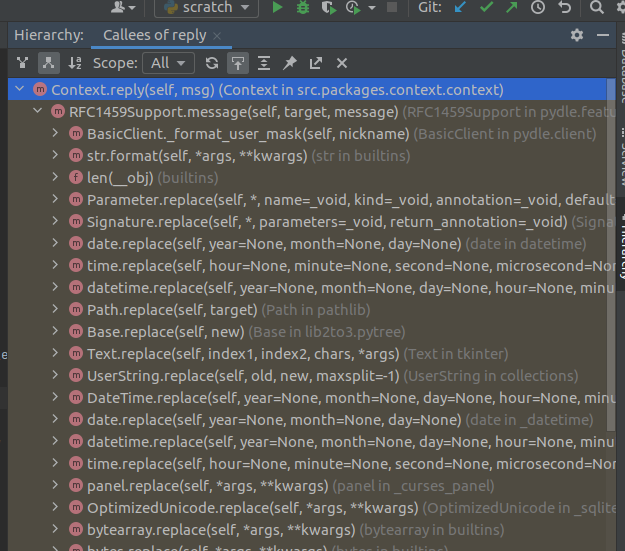
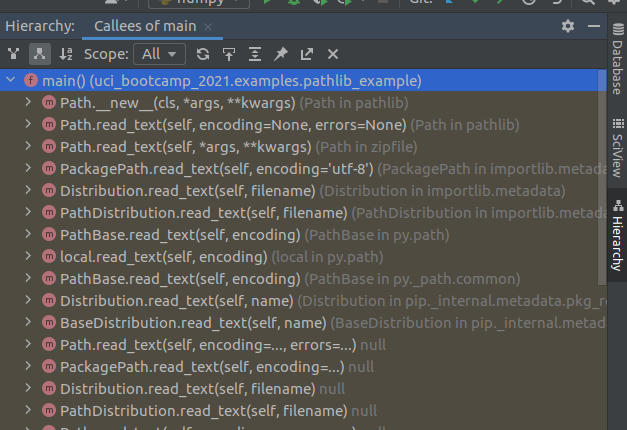
Use a more mundane example repository

diff --git a/src/ide/call_graphs.md b/src/ide/call_graphs.md
@@ -5,45 +5,18 @@ So far we have only shown off basic features an IDE has to offer, and only shown
 To be more representative of challenges programmers can face, its necessary to show more complicated
 projects.
 
-I will use one of my open-source codebases, [Pipsqueak3](https://github.com/theunkn0wn1/pipsqueak3) to
-demonstrate some of the more advanced features an IDE can offer.
+I will use one of the examples out of the Python presentation, which shares the same source repository.
+See [Pathlib](../python/pathlib.md) for an explanation of what this piece of code is doing.
 
-- The exact codebase is of no relevance to Data Science, and was selected due to the author's
-  familiarity with it.
-
-For sake of example, let's take the `Context` class this package defines, and look
-at [`Context.reply`](https://github.com/theunkn0wn1/pipsqueak3/blob/develop/src/packages/context/context.py#L115)
-
-## Getting a list of everything that calls this function
 ```python
-# https://github.com/theunkn0wn1/pipsqueak3/blob/develop/src/packages/context/context.py#L115
-# including the copyright notice as per BSD 3-clause.
-"""
-Copyright (c) 2018 The Fuel Rat Mischief,
-All rights reserved.
-Licensed under the BSD 3-Clause License.
-See LICENSE.md
-"""
-
-
-class Context:
-    ...
-
-    async def reply(self, msg: str):
-        """
-        Sends a message in the same channel or query window as the command was sent.
-        Arguments:
-            msg (str): Message to send.
-        """
-        if self.channel is not None:
-            await self.bot.message(self.channel, msg)
-        else:
-            await self.bot.message(self.user.nickname, msg)
+{{ #include ../../uci_bootcamp_2021/examples/pathlib_example.py:6:20}}
 ```
 
-Say we want to know everywhere this method is called. How can we do that?
+## Getting a list of everything that calls this function
 
-We could probably do a text search, but that may return irrelevant results.
+Say we want to know everywhere this function is called. How can we do that?
+
+We could probably do a text search, but that will return irrelevant results.
 
 We don't need to do that, because PyCharm' static analysis features extends to code structure!
 
@@ -51,14 +24,15 @@ By placing the cursor over the method and pressing the `Control Heiarchy` key (o
 context menu), we can access the information our IDE has about this method!
 
 ![caller_example.png](caller_example.png)
-
+ - There is only one place that calls this function within the repository: within a test!
 ## Getting the list of everything this function calls.
-By default, the Hierarchy view shows what calls the function. Sometimes its useful to have the opposite information: what does this function call.
 
-"Can't you read the code to determine that?" Good guess but actually no.
-Reading the code only shows *direct* calls - the stuff the code directly names.
+By default, the Hierarchy view shows what calls the function. Sometimes its useful to have the opposite
+information: what does this function call.
+
+"Can't you read the code to determine that?" Good guess but actually no. Reading the code only shows *
+direct* calls - the stuff the code directly names.
 
 If we invert our above structural filter to show callees and loosen the scope to all:
 ![calle_example.png](calle_example.png)
-
 > The Yellow highlight here indicates library code.
